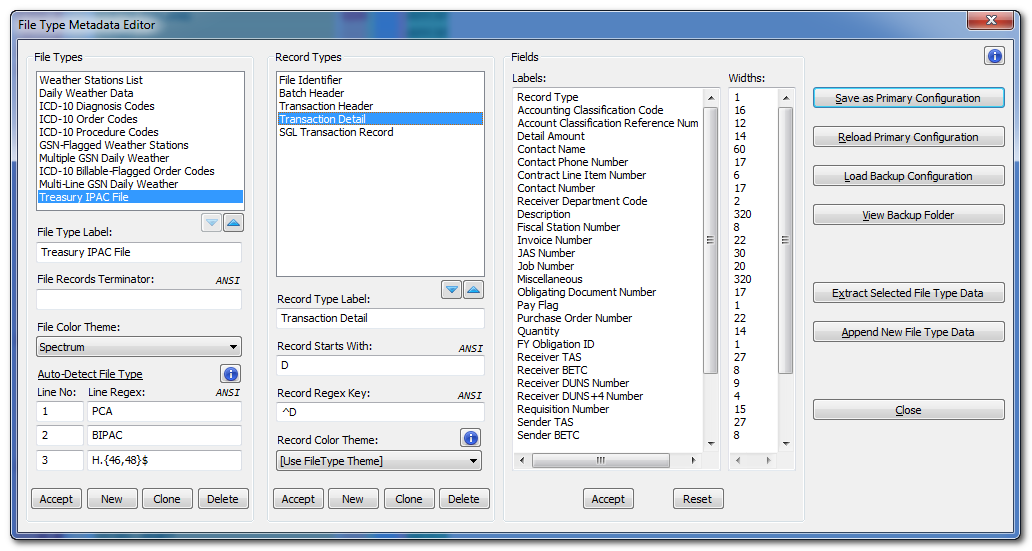
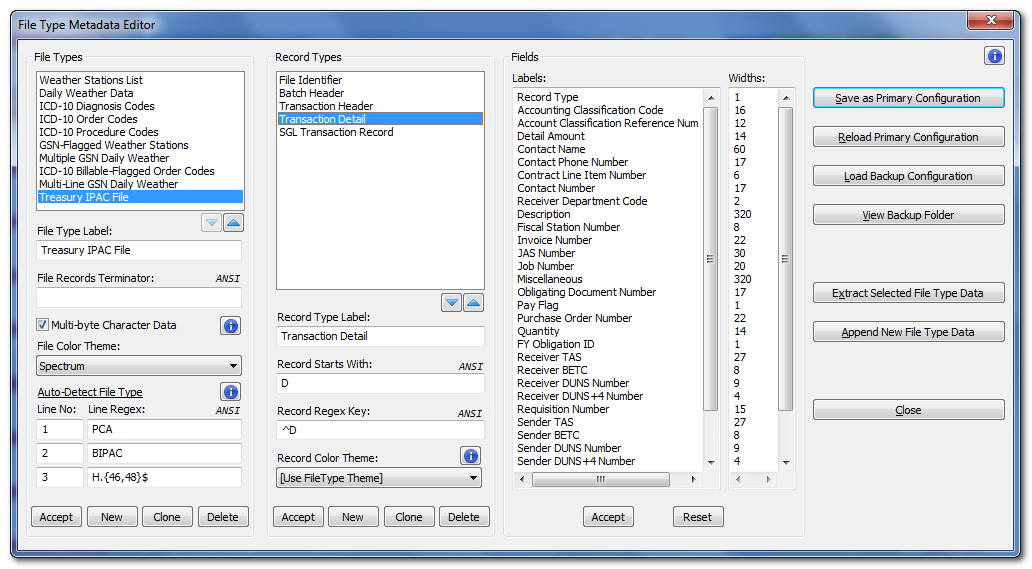
Updated documentation for the Multi-byte Character Mode feature

diff --git a/docs/multibyte_character_data.md b/docs/multibyte_character_data.md
@@ -1,1 +1,42 @@
 ## Multi-byte Character Data
+
+![Multi-byte_Character_Data](https://raw.githubusercontent.com/shriprem/FWDataViz/master/images/multibyte_character_data.png)
+
+When files are likely to contain multi-byte character data, the plugin must be switched from using bytes to characters to determine field widths and column positions. To do so, the Multi-byte Character Data checkbox in the [File Type Metadata Editor](https://github.com/shriprem/FWDataViz/blob/master/docs/file_type_config_dialog.md) should be toggled ON.
+
+When multi-byte character data mode is enabled, character column counts will be used in [Jump To Field](https://github.com/shriprem/FWDataViz/blob/master/README.md#jump-to-field-popup) and [Data Extraction](https://github.com/shriprem/FWDataViz/blob/master/docs/data_extract_dialog.md).
+
+It should be noted that the [Scintilla](https://www.scintilla.org/index.html) component, which is at the core of Notepad++, uses *encoded characters* rather than *user-perceived characters* or *grapheme clusters* to count columns and process cursor movements. For more information on this aspect, refer to: [UTF-8 Everywhere](http://utf8everywhere.org).
+
+#### Quick Override from panel
+
+Some users may see the need to quickly toggle between byte-based and character-based modes without having to configure the setting in the [File Type Metadata Editor](https://github.com/shriprem/FWDataViz/blob/master/docs/file_type_config_dialog.md). There is such an override option control, for quickly toggling the multi-byte character mode on the plugin panel. But this control is hidden by default for a reason explained later below.
+
+To make the **Multi-Byte Chars** option visible on the plugin panel, manually edit the `PLUGINS_CONFIG_DIR/FWDataViz/Preferences.ini` file to add the following line:
+``
+ShowMBCharsOnPanel=Y
+``
+
+![Multi-byte_Chars_Panel_Override](https://raw.githubusercontent.com/shriprem/FWDataViz/master/images/multibyte_chars_panel_override.png)
+
+The *Multi-Byte Chars* checkbox on the plugin panel is a three-state control. Its operation may not be immediately intuitive to many users of this plugin. That is why it is hidden by default. Users willing to take the extra effort to uncover this option can be reasonably expected to have read this document.
+
+##### Three states of the *Multi-Byte Chars* checkbox control
+* CHECKED (OVERRIDE): When checked, the multi-byte character mode for the plugin is enabled for all file types.
+
+* UNCHECKED (OVERRIDE): When unchecked, the multi-byte character mode for the plugin is disabled for all file types.
+
+* MIXED (PASSTHRU'): In the indeterminate state, the multi-byte character mode activation for the plugin will be based on the setting in the [File Type Metadata Editor](https://github.com/shriprem/FWDataViz/blob/master/docs/file_type_config_dialog.md).
+
+##### Multi-byte Character Mode Active Indicator
+This is a single character that is selectively displayed to the left of the *Multi-Byte Chars* control.
+
+| Indicator | Checkbox State(s) | Remarks |
+|---|---|---|
+| *  | CHECKED only | Current document is a valid FWDataviz file type. The multi-byte character mode is active due to the panel-level setting in override state. |
+| + | MIXED only | Current document is a valid FWDataviz file type. The multi-byte character mode is active due to the file-type-level setting. |
+| - | MIXED only | Current document is a valid FWDataviz file type. But the multi-byte character mode is *not* active due to the file-type-level setting. |
+| None | CHECKED or MIXED | Current document is *not* a valid FWDataviz file type. |
+| None | UNCHECKED | The multi-byte character mode is *not* active due to the panel-level setting in override mode. |
+
+See also: [File Type Metadata Editor](https://github.com/shriprem/FWDataViz/blob/master/docs/file_type_config_dialog.md)

diff --git a/VersionHistory.md b/VersionHistory.md
@@ -1,5 +1,26 @@
 # Version History
 
+### Version 2.2.0.0
+#### Enhancements
+1. Visualize files with [Multi-byte Character Data](https://github.com/shriprem/FWDataViz/blob/master/docs/multibyte_character_data.md).
+
+2. Use character column counts for *Field Column* values in [Cursor Position Data](https://github.com/shriprem/FWDataViz/blob/master/README.md#fixed-width-data-visualizer-panel) while in [Multi-byte Character Data](https://github.com/shriprem/FWDataViz/blob/master/docs/multibyte_character_data.md) mode.
+
+3. Display UTF-8 Bytes and Unicode value  for multi-byte characters in [Cursor Position Data](https://github.com/shriprem/FWDataViz/blob/master/README.md#fixed-width-data-visualizer-panel) on the plugin panel (*regardless* of whether the multi-byte character mode is switched on or not).
+
+4. Use character column counts in [Jump To Field](https://github.com/shriprem/FWDataViz/blob/master/README.md#jump-to-field-popup) while in [Multi-byte Character Data](https://github.com/shriprem/FWDataViz/blob/master/docs/multibyte_character_data.md) mode.
+
+5. Use character column counts in [Data Extraction](https://github.com/shriprem/FWDataViz/blob/master/docs/data_extract_dialog.md) while in [Multi-byte Character Data](https://github.com/shriprem/FWDataViz/blob/master/docs/multibyte_character_data.md) mode.
+
+6. A [hidden option](https://github.com/shriprem/FWDataViz/blob/master/docs/multibyte_character_data.md#quick-override-from-panel) on the plugin panel to quickly override the File Type [Multi-byte Character Data](https://github.com/shriprem/FWDataViz/blob/master/docs/multibyte_character_data.md) mode.
+
+#### Fixed
+1. Record overshoots occurred with [Jump To Field](https://github.com/shriprem/FWDataViz/blob/master/README.md#jump-to-field-popup) and [Data Extraction](https://github.com/shriprem/FWDataViz/blob/master/docs/data_extract_dialog.md) when record terminated earlier than at their defined lengths.
+
+**Release:** [2.2.0.0 Release](https://github.com/shriprem/FWDataViz/releases/tag/v2.2.0.0)
+
+---
+
 ### Version 2.1.2.1
 1. **Enhancement:** Cursor will be briefly set to block mode to highlight its position in text when using [Jump to Field](https://github.com/shriprem/FWDataViz#jump-to-field-popup).
 

diff --git a/docs/file_type_config_dialog.md b/docs/file_type_config_dialog.md
@@ -14,10 +14,11 @@ This editor is organized in a three-level hierarchy:
 
 * The following fields are optional:
   * File Records Terminator
-  * All Auto-Detect File Type fields
+  * [Multi-byte Character Data](https://github.com/shriprem/FWDataViz/blob/master/docs/multibyte_character_data.md)
+  * All [Auto-Detect File Type](https://github.com/shriprem/FWDataViz/blob/master/docs/auto_detect_file_type.md) fields
   * Record Starts With
   * Record Regex Key
-  * Record Color Theme
+  * [Record Color Theme](https://github.com/shriprem/FWDataViz/blob/master/docs/record_type_theme.md)
 
 * Field Labels and Field Widths are synchronized for editing and scrolling.
 
@@ -29,4 +30,4 @@ This editor is organized in a three-level hierarchy:
 
 * Previous configurations are automatically backed up with each save. Use _Load Backup Configuration File_ to load a backup file.
 
-**See also**: [Auto-Detect File Type Configuration](https://github.com/shriprem/FWDataViz/blob/master/docs/auto_detect_file_type.md) | [Record Type Theme](https://github.com/shriprem/FWDataViz/blob/master/docs/record_type_theme.md) | [Extract File Type Data](https://github.com/shriprem/FWDataViz/blob/master/docs/file_type_extract_dialog.md) | [Append File Type Data](https://github.com/shriprem/FWDataViz/blob/master/docs/file_type_append_dialog.md)
+**See also**: [Auto-Detect File Type Configuration](https://github.com/shriprem/FWDataViz/blob/master/docs/auto_detect_file_type.md) | [Record Type Theme](https://github.com/shriprem/FWDataViz/blob/master/docs/record_type_theme.md) | [Extract File Type Data](https://github.com/shriprem/FWDataViz/blob/master/docs/file_type_extract_dialog.md) | [Append File Type Data](https://github.com/shriprem/FWDataViz/blob/master/docs/file_type_append_dialog.md) | [Multi-byte Character Data](https://github.com/shriprem/FWDataViz/blob/master/docs/multibyte_character_data.md).

diff --git a/README.md b/README.md
@@ -1,6 +1,6 @@
 # FWDataViz
 #### Fixed Width Data Visualizer plugin for Notepad++
-[Current Version: 2.1.2.1](https://github.com/shriprem/FWDataViz/blob/master/VersionHistory.md)
+[Current Version: 2.2.0.0](https://github.com/shriprem/FWDataViz/blob/master/VersionHistory.md)
 ![FWDataViz](https://raw.githubusercontent.com/shriprem/FWDataViz/master/images/multi_rec_weather_stations.png)
 
 * Visualizes fields within fixed-width data files with distinct colors and font styles.
@@ -14,6 +14,8 @@
    * <a href="#homogenous-record-type-fixed-width-data-files">Homogenous record-type data</a>
    * <a href="#mixed-record-type-fixed-width-data-files">Mixed record-types data</a>
    * <a href="#multi-line-record-type-fixed-width-data-files">Multiple-line-spanning record-types data</a>
+* Easily switch between single byte (US-ASCII) and [Multi-Byte Character](https://github.com/shriprem/FWDataViz/blob/master/docs/multibyte_character_data.md) data columns.
+
 * [Dark mode rendering of the plugin UI.](https://github.com/shriprem/FWDataViz/blob/master/docs/dark_mode_ui.md)
 
 ## User Interface
